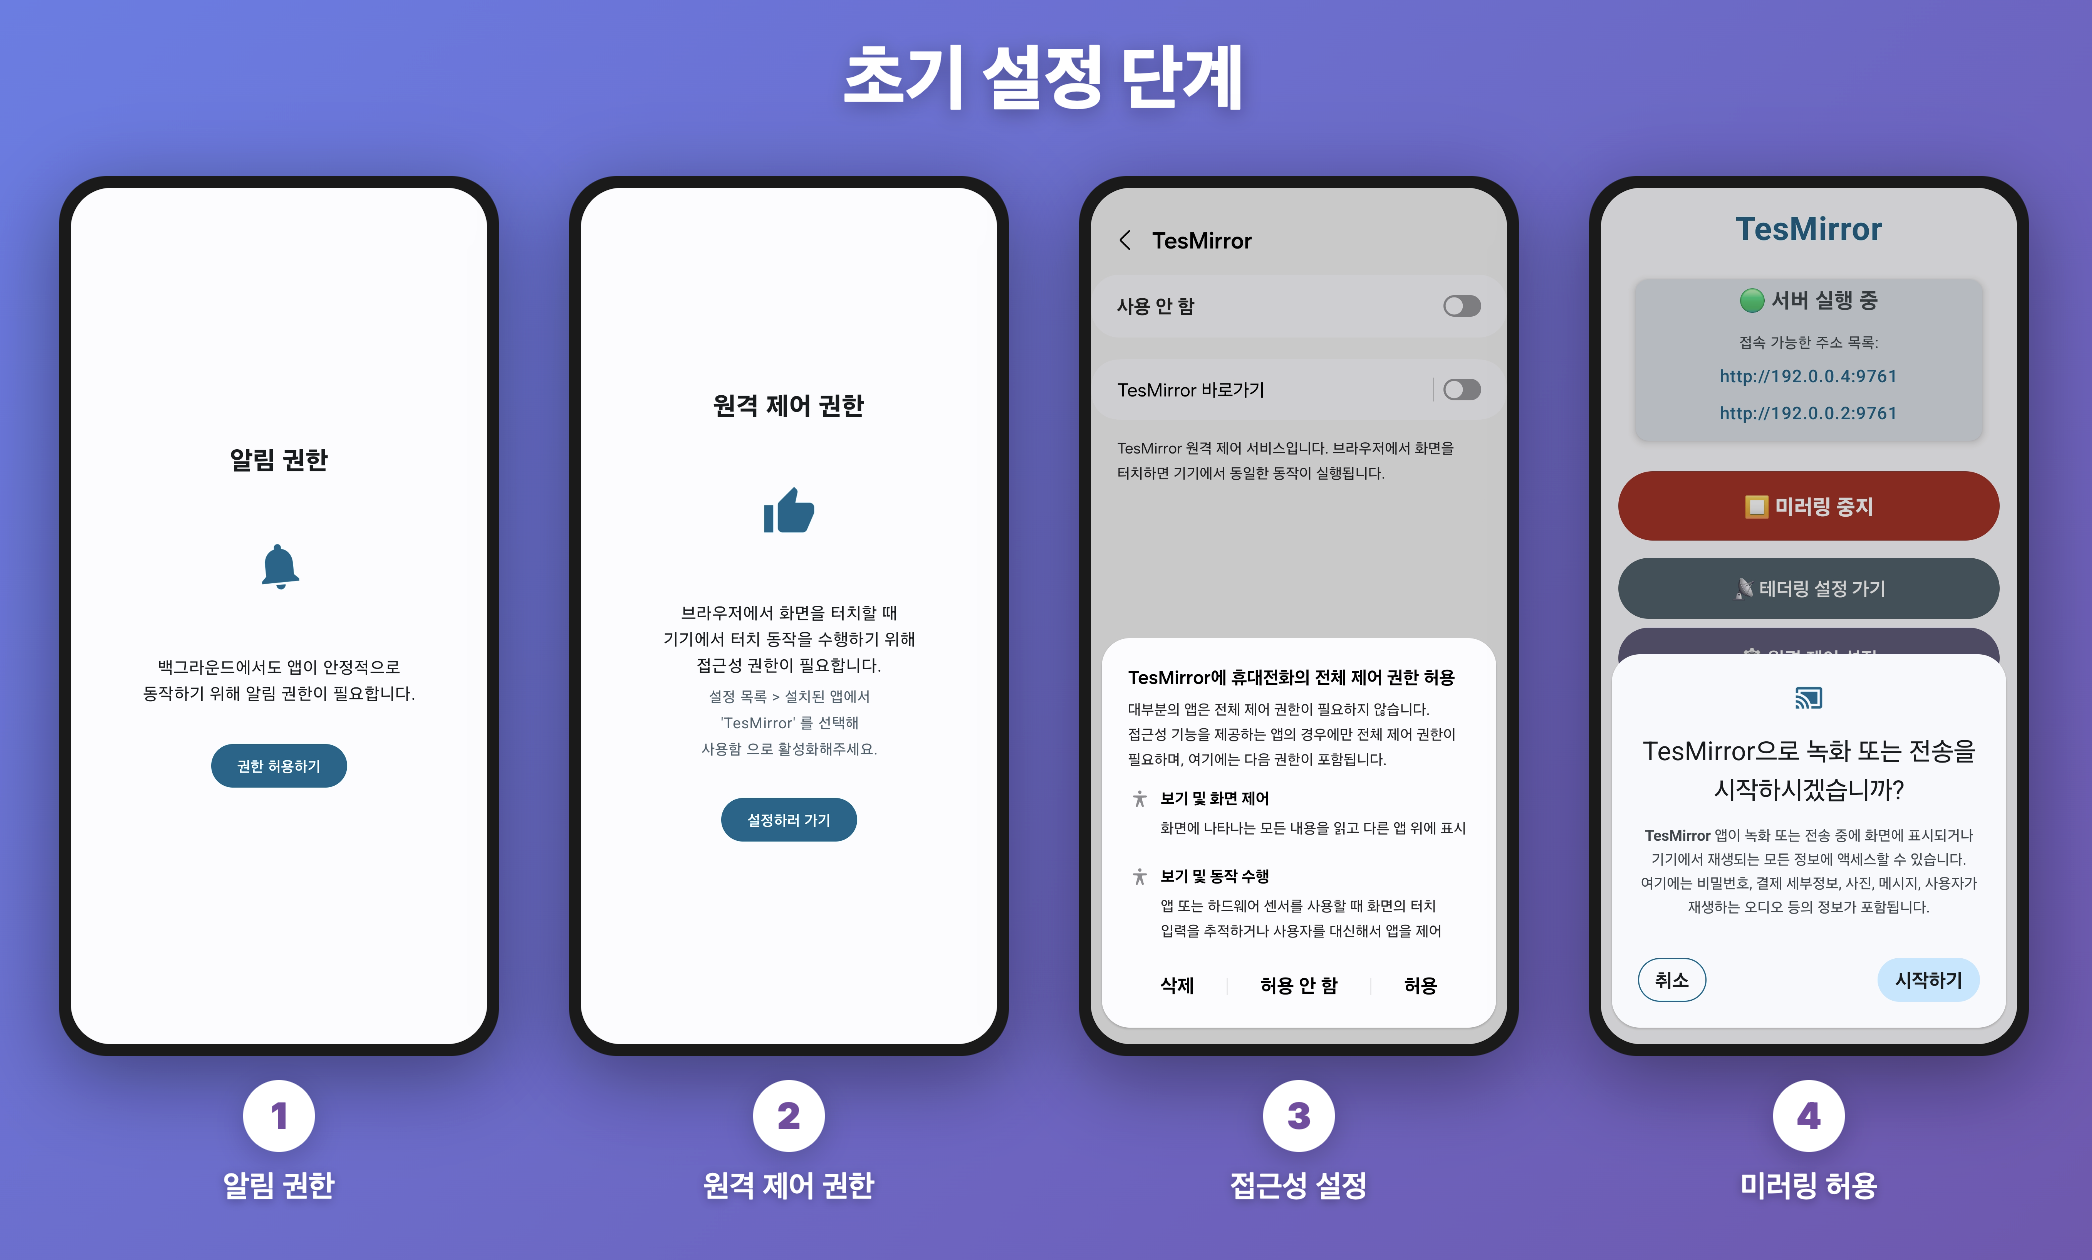
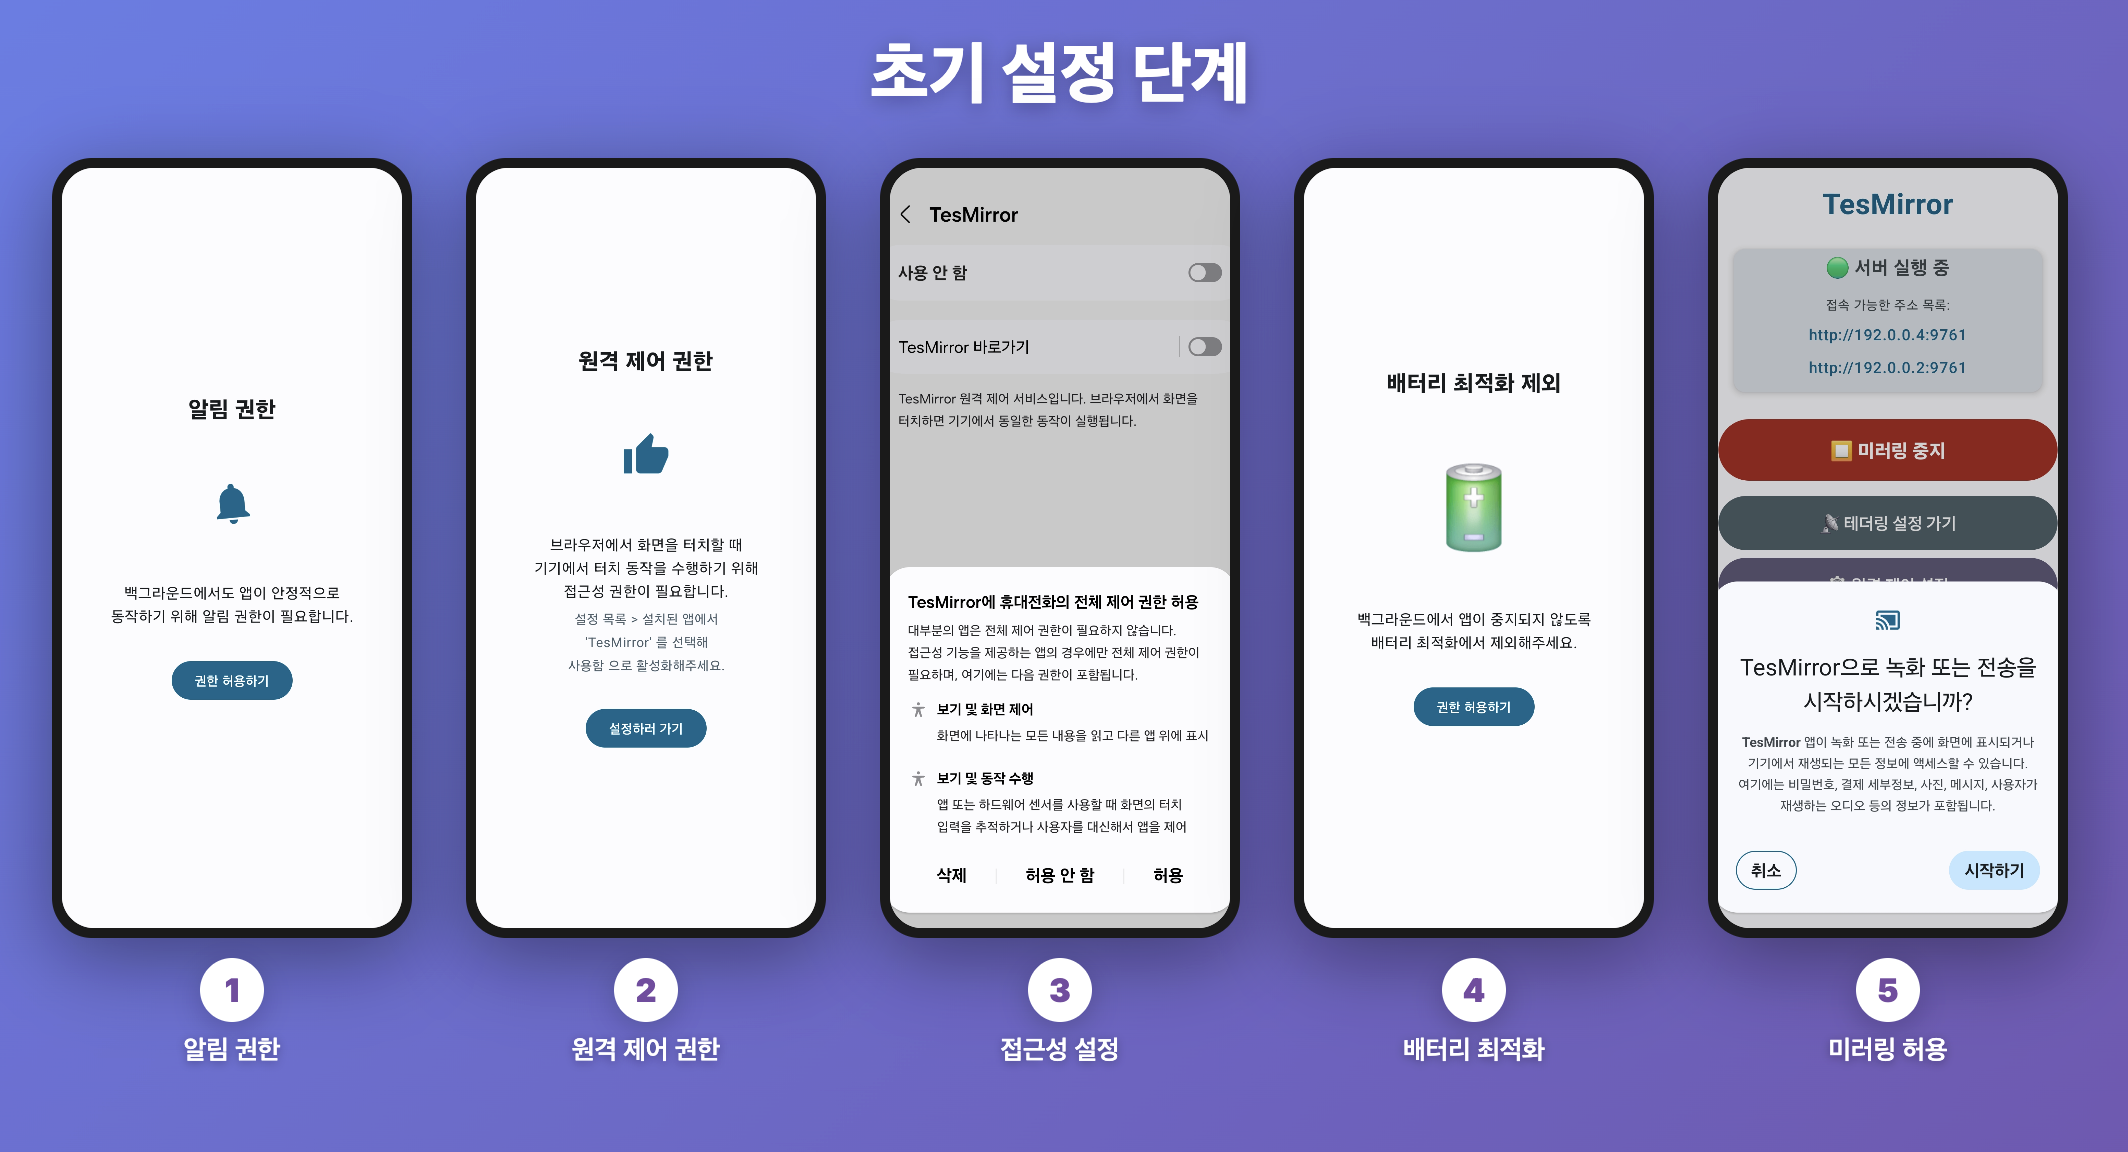
사용 가이드 권한 설정 단계 업데이트
- 배터리 최적화 제외 권한 추가
- 초기 설정 4단계 → 5단계로 변경

diff --git a/en/tesmirror/guide.md b/en/tesmirror/guide.md
@@ -69,10 +69,11 @@ Please allow the permissions requested when launching the app:
 - Screen recording permission (for mirroring)
 - Accessibility service permission (for touch control)
 - Notification permission
+- Battery optimization exclusion (for uninterrupted mirroring in background)
 
 <img src="../../images/guide/02_setup.png" alt="Initial Setup Steps" width="100%">
 
-*4-step initial setup: Notification permission → Remote control permission → Accessibility settings → Mirroring permission*
+*5-step initial setup: Notification permission → Remote control permission → Accessibility settings → Battery optimization exclusion → Mirroring permission*
 
 ### Step 3: Setup Complete
 

diff --git a/ko/tesmirror/guide.md b/ko/tesmirror/guide.md
@@ -69,10 +69,11 @@ Google Play 스토어에서 **TesMirror**를 검색하여 설치합니다.
 - 화면 녹화 권한 (미러링용)
 - 접근성 서비스 권한 (터치 제어용)
 - 알림 권한
+- 배터리 최적화 제외 권한 (백그라운드에서 미러링 중단 없이 사용)
 
 <img src="../../images/guide/02_setup.png" alt="초기 설정 단계" width="100%">
 
-*초기 설정 4단계: 알림 권한 → 원격 제어 권한 → 접근성 설정 → 미러링 허용*
+*초기 설정 5단계: 알림 권한 → 원격 제어 권한 → 접근성 설정 → 배터리 최적화 제외 → 미러링 허용*
 
 ### 3단계: 설정 완료
 
